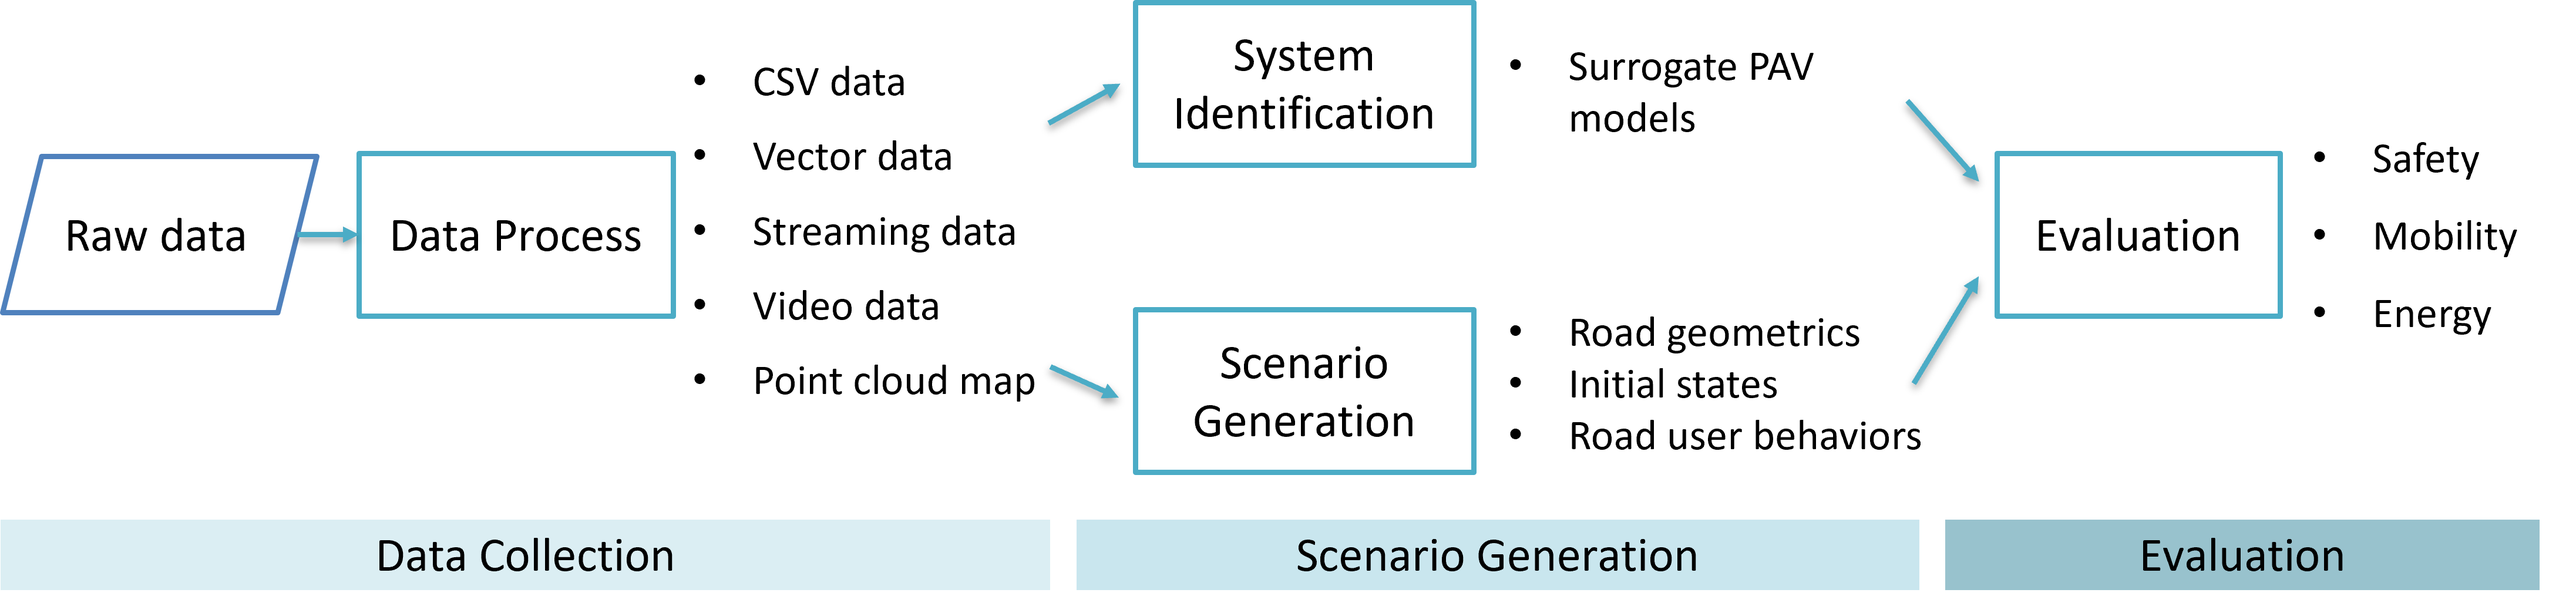
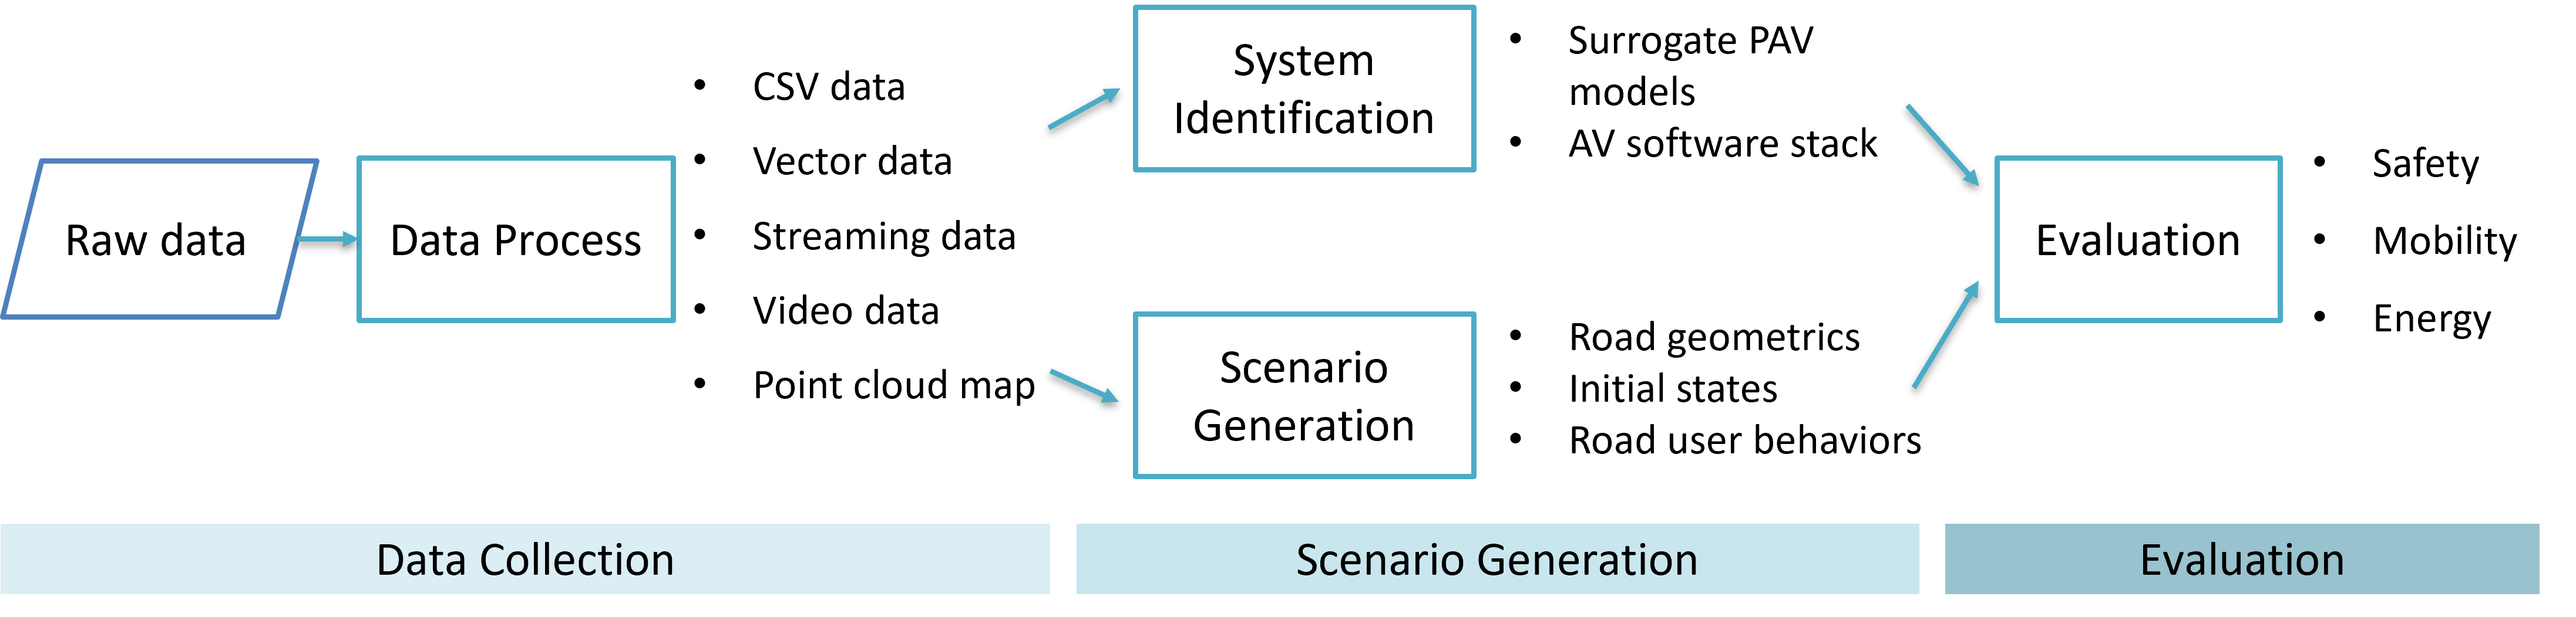
update contribution rules

diff --git a/README.md b/README.md
@@ -46,7 +46,7 @@ By organizing the data from the above datasets, we processed a unified trajector
 - **Simulation Integration:** Configured packages for SUMO, Vissim, and basic parameters for models.
 
 ### December 2024
-- **Dataset Expansion:** Added new open-source trajectory datasets from ULTRA datasets.
+- **Dataset Expansion:** Added new open-source trajectory datasets from ULTra-AV datasets.
 - **Model Enhancements:** Improved basic logic for the project.
 
 
@@ -54,10 +54,10 @@ By organizing the data from the above datasets, we processed a unified trajector
 
 Open-PAV consists of the following components:
 
-- **Data Repository:** A unified storage of diverse datasets (LiDAR, images, videos, trajectories).
-- **Model Calibration:** Utilities to calibrate vehicle kinematic models and export them for simulation.
-- **Simulation Integration:** Pre-configured packages for SUMO, Vissim, and other platforms.
-![Major Components](./GitPage/docs/images/Workflow.png)
+- **Data Process:** Given the raw AV data (LiDAR, images, videos, trajectories) as input, this module converts data of the same type into a unified format and performs preliminary data cleaning.
+- **System Identification:** Using the processed AV data, this module calibrates the vehicle kinematic models of automated vehicles and exports them for simulation use. Users can also directly input their AV software stack to test their developed AV system within this module.
+- **Scenario Generation:** This module is designed to generate tailored safety-critical driving scenarios specific to a given AV model, aiming to evaluate its safety performance.
+- **Evaluation:** The generated scenarios are fed into pre-configured simulators, such as SUMO, VISSIM, and CARLA, for more accurate safety evaluation.
 
 Check the [Open-PAV Documentation](https://markmaaaaa.github.io/OpenPAV) for more details.
 
@@ -78,32 +78,37 @@ Check the [Open-PAV Documentation](https://markmaaaaa.github.io/OpenPAV) for mor
 - [Class Design](https://open-pav-documentation.readthedocs.io/en/latest/developer_tutorial.html)
 - [Customizing Algorithms](https://open-pav-documentation.readthedocs.io/en/latest/customization.html)
 
-## Relevant Literature
-
-- Zhou, H., Ma, K., Liang, S., Li, X. and Qu, X., 2024. A unified longitudinal trajectory dataset for automated vehicle. *Scientific Data*, *11*(1), p.1123.
-- Ma, K., Zhou, H., Liang, Z. and Li, X., 2025. Automated vehicle microscopic energy consumption study (AV-Micro): Data collection and model development. *Energy*, *320*, p.135096.
-
 ## Contributors
 
-### Contributing Organizations:
+### Contributing Groups:
 - [CATS Lab](https://catslab.engr.wisc.edu/) (PI: [Xiaopeng Li](https://catslab.engr.wisc.edu/staff/xiaopengli/))
 
 ### Technical Contributors:
 
-- UW-Madisons: [Ke Ma](https://markmaaaaa.github.io/KeMa.github.io/), [Hang Zhou]([Zhou, Hang – CATS Lab – UW–Madison](https://catslab.engr.wisc.edu/staff/zhou-hang/)), Keke Long, Chengyuan Ma.
+- [Ke Ma**](https://markmaaaaa.github.io/KeMa.github.io/), [Hang Zhou**]([Zhou, Hang – CATS Lab – UW–Madison](https://catslab.engr.wisc.edu/staff/zhou-hang/)), Keke Long** , Chengyuan Ma**.
 
 ### Contribution Rules:
 
-We welcome contributions to Open-PAV! Here’s how you can help:
+We welcome contributions to Open-PAV! Our projects have three levels of contributors. They are:
 
-- Report bugs and suggest improvements by submitting issues.
-- Submit contributions via [pull requests](https://github.com/example/Open-PAV/pulls). Please use the provided [pull request template](.github/PR_TEMPLATE.md).
-- Please contact Hang Zhou (hzhou364@wisc.edu) if you want to join the regular contributors' team!
+1. *Raw Data Contributor (\*)*: Contribute raw PAV data to the platform.
+
+2. *Processed Data Contributor (\*\*)*. Contribute processed PAV data based on our standard format to the platform. 
+
+3. *Evaluation Contributor (\*\*\*)*. Contribute PAV software stacks or calibrated AV models by using “System Identification” module. Then run the “Evaluation” module in specific scenarios to evaluate its performance on, e.g., safety, mobility, energy, etc.
+
+For other users, you can also report bugs and suggest improvements by submitting issues.
 
 ### Acknowledgements:
 
 This project is partially supported by the Center for Connected and Automated Transportation (CCAT) through the project titled *"Traffic Control based on CARMA Platform for Maximal Traffic Mobility and Safety"*, National Institute for Congestion Reduction (NICR) through *"Transit Priority Phase II: Network Control in Realistic Settings with Heterogeneous Vehicles"* and *"Cordon-Metering Rules for Present-Day and Future Cities"*, and National Science Foundation (NSF) through *"NSF	CPS: Small: NSF-DST: Turning “Tragedy of the Commons (ToC)” into “Emergent Cooperative Behavior (ECB)” for Automated Vehicles at Intersections with Meta-Learning"*. We also sincerely appreciate all the dataset providers and contributors for making this work possible.
 
+## Relevant Publications
+
+- Zhou, H., Ma, K., Liang, S., Li, X. and Qu, X., 2024. A unified longitudinal trajectory dataset for automated vehicle. *Scientific Data*, *11*(1), p.1123.
+- Ma, K., Zhou, H., Liang, Z. and Li, X., 2025. Automated vehicle microscopic energy consumption study (AV-Micro): Data collection and model development. *Energy*, *320*, p.135096.
+
 ## License
 
 Open-PAV is released under the [MIT License](LICENSE). See the LICENSE file for details.
+
